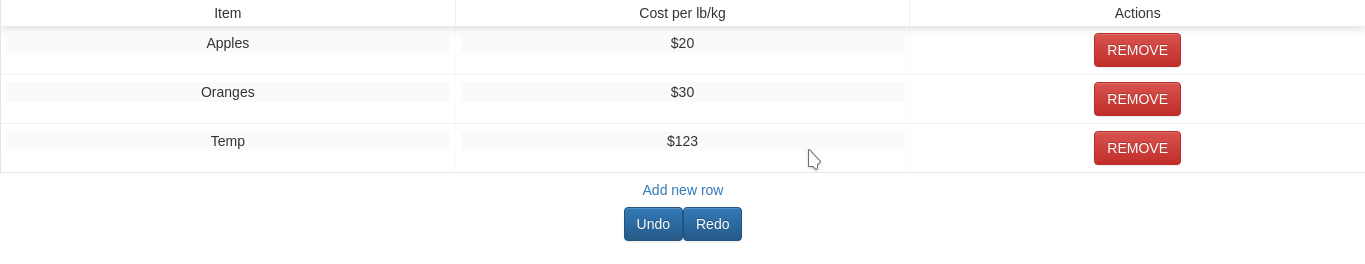
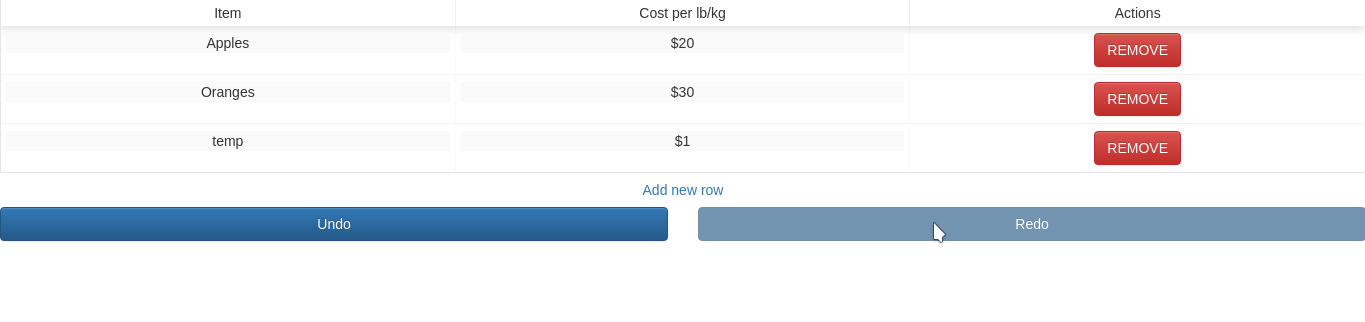
update

diff --git a/src/PriceTable.js b/src/PriceTable.js
@@ -1,6 +1,6 @@
 import React, { Component } from 'react';
 import ReactTable from 'react-table';
-import { Button, Row } from 'react-bootstrap';
+import { Button, Row, Col } from 'react-bootstrap';
 
 import 'react-table/react-table.css';
 
@@ -78,26 +78,38 @@ class PriceTable extends Component {
                     }}>Add new row</Button>
                 </Row>
                 <Row>
-                    <Button bsStyle="primary" onClick={() => {
-                        if (this.state.past_data.length > 0) {
-                            const { past_data, present_data, future_data } = JSON.parse(JSON.stringify(this.state));
+                    <Col md={6}>
+                        <Button
+                            bsStyle="primary"
+                            disabled={this.state.past_data.length < 1}
+                            block
+                            onClick={() => {
+                                if (this.state.past_data.length > 0) {
+                                    const { past_data, present_data, future_data } = JSON.parse(JSON.stringify(this.state));
 
-                            const previous = past_data[past_data.length - 1];
-                            const new_past = past_data.splice(past_data.length - 1, 1);
-                            future_data.unshift(present_data);
-                            this.setState({ past_data: new_past, present_data: previous, future_data: future_data });
-                        }
-                    }}>Undo</Button>
-                    <Button bsStyle="primary" onClick={() => {
-                        if (this.state.future_data.length > 0) {
-                            const { past_data, present_data, future_data } = JSON.parse(JSON.stringify(this.state));
+                                    const previous = past_data[past_data.length - 1];
+                                    const new_past = past_data.splice(past_data.length - 1, 1);
+                                    future_data.unshift(present_data);
+                                    this.setState({ past_data: new_past, present_data: previous, future_data: future_data });
+                                }
+                            }}>Undo</Button>
+                    </Col>
+                    <Col md={6}>
+                        <Button
+                            bsStyle="primary"
+                            disabled={this.state.future_data.length < 1}
+                            block
+                            onClick={() => {
+                                if (this.state.future_data.length > 0) {
+                                    const { past_data, present_data, future_data } = JSON.parse(JSON.stringify(this.state));
 
-                            const next = future_data[0];
-                            const new_future = future_data.splice(0, 1);
-                            past_data.push(present_data);
-                            this.setState({ past_data: past_data, present_data: next, future_data: new_future });
-                        }
-                    }}>Redo</Button>
+                                    const next = future_data[0];
+                                    const new_future = future_data.splice(0, 1);
+                                    past_data.push(present_data);
+                                    this.setState({ past_data: past_data, present_data: next, future_data: new_future });
+                                }
+                            }}>Redo</Button>
+                    </Col>
                 </Row>
             </div>
         );
